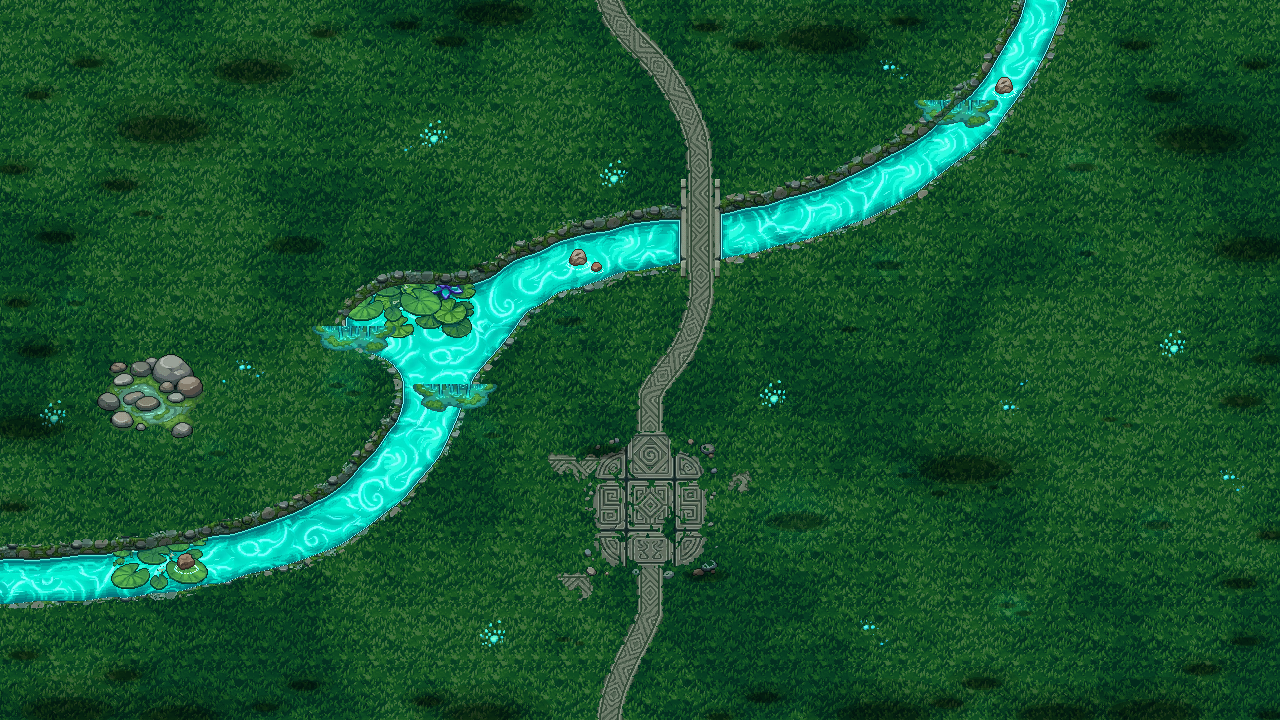
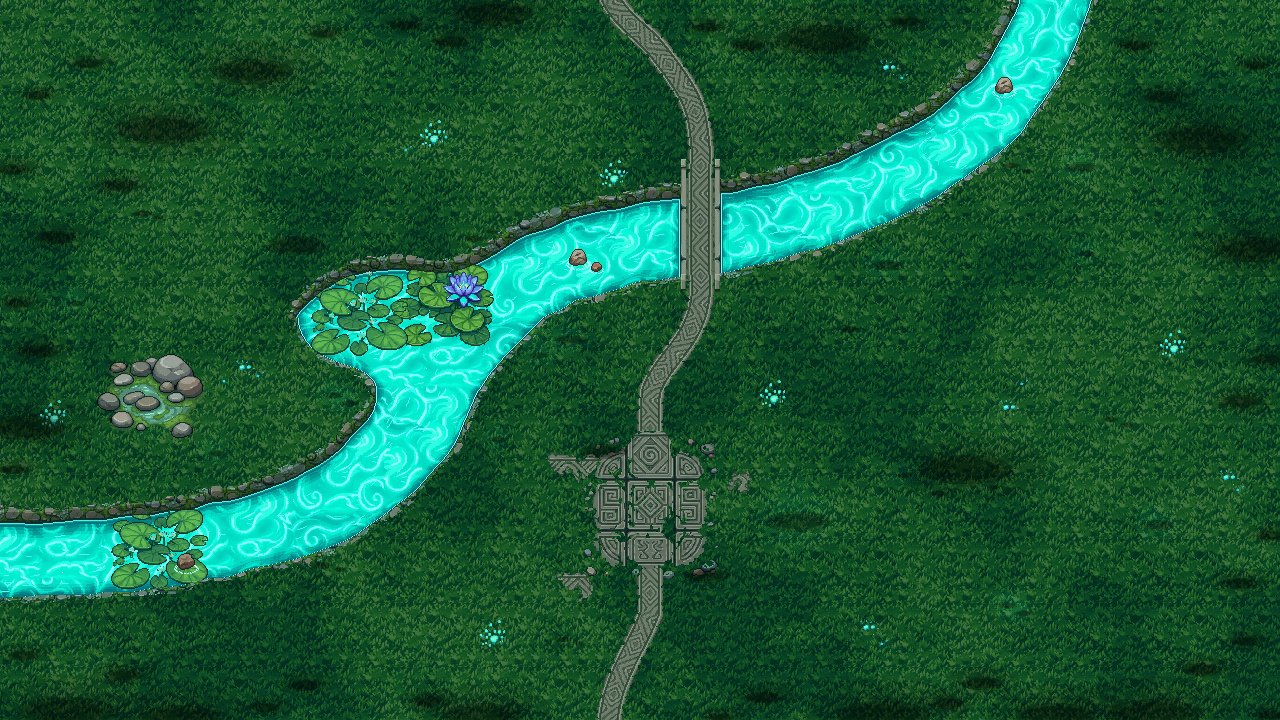
Ruscello: via le canne, il ruscello piu' largo
Bru: "bocciati quei cosi lunghi che escono dall'acqua, non blendano
bene; il ruscello dovrebbe essere piu' grosso". Tolte le canne luminose
(i pezzi, il piede dipinto, la loro luce). Il ruscello ha mezza
larghezza 38-48 invece di 23-32 (largo 80-95 pixel), lo stagno e' piu'
grande, il ponte piu' lungo; increspature lungo tutta la larghezza.
Sassi e ninfee rimessi dove l'acqua li vuole: nessun piede in acqua,
le ninfee stanno sull'acqua per nove decimi.

Claude-Session: https://claude.ai/code/session_01AE7uzpDH1Lo1PHb29aXJxZ

diff --git a/strumenti/livelli/ruscello_radenna.py b/strumenti/livelli/ruscello_radenna.py
@@ -15,7 +15,7 @@
 #
 # Materiali e pezzi dai fogli di Bru: l'erba di Radenna, i ciottoli muschiosi (tile_radenna) per le sponde, la
 # piazza a nove lastre (tile_radenna), l'acqua della vasca col filo chiaro lungo i bordi, il bordo della vasca
-# per le spallette del ponte, i pezzi delle pianure di Radenna (vasca, vasche a gradini, ninfee, canne, pozza
+# per le spallette del ponte, i pezzi delle pianure di Radenna (vasca, vasche a gradini, ninfee, pozza
 # coi sassi, colonna). L'acqua e le piante luminose bagnano di turchese l'erba vicina.
 #
 # Scrive art/livelli/ruscello.png (il terreno, con le cose piatte), ruscello_pezzi.json (le cose in piedi, che il
@@ -219,10 +219,6 @@ def prepara():
     _salva(verde[:, ::-1], os.path.join(NUOVI, 'cespuglione_verde_s.png'))
     f = np.asarray(Image.open(os.path.join(PEZ, 'alberi', 'albero_funghi.png')).convert('RGBA'))
     _salva(f[:, ::-1].astype(float), os.path.join(NUOVI, 'albero_funghi_s.png'))
-    # le canne: gli steli in piedi (pezzo), il piede d'acqua e muschio va dipinto sull'acqua
-    c = np.asarray(Image.open(os.path.join(PEZ, 'radenna', 'canne_luminose.png')).convert('RGBA')).astype(float)
-    _salva(c[:-28], os.path.join(NUOVI, 'canne_steli.png'))
-    _salva(c[:-28, ::-1], os.path.join(NUOVI, 'canne_steli_s.png'))
 
 
 # ================================================================ forme e rumore
@@ -290,11 +286,6 @@ def _posa(out, a, x0, y0):
             y, x = y0 + j, x0 + i
             if 0 <= y < H and 0 <= x < W and a[j, i, 3] > 0:
                 out[y, x] = a[j, i, :3]
-
-
-def _e_acqua_del_pezzo(c):
-    r, g, b = c[0], c[1], c[2]
-    return g > r + 40 and b > 0.72 * g and b < g + 10 and b > 90
 
 
 def _sfoca(a, r):
@@ -430,14 +421,14 @@ def _chiudi(m, k):
 # ================================================================ la pianta
 
 # il ruscello: entra in alto a destra, scende a S e se ne va a sinistra; mezza larghezza nei punti
-FIUME = [(1062, -70), (1034, 26), (972, 116), (866, 188), (744, 226), (622, 244), (522, 280), (452, 350),
-         (414, 438), (334, 514), (208, 556), (82, 572), (-80, 578)]
-LARGHI = [23, 23, 25, 27, 28, 28, 30, 32, 31, 29, 28, 27, 27]
-STAGNO = (416, 320, 72, 46)          # lo stagno sulla curva di fuori: centro e raggi (si fonde col ruscello)
+FIUME = [(1070, -80), (1046, 20), (984, 112), (872, 182), (748, 222), (626, 240), (526, 276), (450, 346),
+         (408, 430), (326, 500), (200, 538), (74, 552), (-90, 556)]
+LARGHI = [38, 38, 40, 42, 44, 44, 46, 48, 46, 44, 42, 42, 42]
+STAGNO = (392, 318, 96, 58)          # lo stagno sulla curva di fuori: centro e raggi (si fonde col ruscello)
 # la strada: arriva dal basso (dall'atterraggio), attraversa la piazza dritta nel mezzo, passa il ponte (dritta
-# sull'acqua) e sale in alto
-VIA = [(604, 800), (612, 700), (646, 622), (650, 600), (650, 505), (650, 410), (654, 388), (684, 346),
-       (700, 300), (700, 260), (700, 220), (700, 180), (694, 128), (662, 70), (612, 10), (590, -80)]
+# sull'acqua e sulle sponde) e sale in alto
+VIA = [(604, 800), (612, 700), (646, 622), (650, 600), (650, 505), (650, 410), (656, 380), (688, 334),
+       (700, 300), (700, 260), (700, 220), (700, 180), (700, 140), (690, 98), (656, 48), (612, 0), (590, -80)]
 RX = 686                              # il ponte: la strada dritta sull'acqua, x 686..714
 PIAZZA = (650, 505)                   # il centro della piazza antica (nove lastre del foglio di Bru)
 
@@ -482,7 +473,8 @@ def pianta():
         t.Z[g0 - 3:g1 + 3, x0:x0 + 5] = 7; t.M[g0 - 3:g1 + 3, x0:x0 + 5] = SPALLA
         for a in (g0 - 9, g1 + 3):
             t.Z[a:a + 6, x0:x0 + 5] = 10; t.M[a:a + 6, x0:x0 + 5] = PALO
-    return t, dict(S=S, V=V, D=D, w=w, SV=SV, VV=VV, dist=dist, largo=largo, acqua=acqua, lin=lin, u=u)
+    return t, dict(S=S, V=V, D=D, w=w, SV=SV, VV=VV, dist=dist, largo=largo, acqua=acqua, lin=lin, u=u,
+                   wl=np.interp(u, uc, LARGHI))
 
 
 # ================================================================ i colori
@@ -599,11 +591,11 @@ def disegna(t, F, seme=3):
     # la corrente: increspature allungate lungo il filo del ruscello (non nello stagno)
     lin, u = F['lin'], F['u']
     tg = np.gradient(lin, axis=0); tg /= np.linalg.norm(tg, axis=1)[:, None] + 1e-9
-    for k in range(70):
-        i = int(rng.integers(20, len(lin) - 20)); off = rng.uniform(-0.5, 0.5)
+    for k in range(130):
+        i = int(rng.integers(20, len(lin) - 20)); off = rng.uniform(-0.7, 0.7)
         px, py = lin[i]; nx, ny = -tg[i, 1], tg[i, 0]
-        wid = np.interp(i, [0, len(lin)], [20, 20])
-        L = int(rng.integers(5, 11))
+        wid = F['wl'][i]
+        L = int(rng.integers(5, 13))
         for j in range(L):
             q = min(len(lin) - 1, i + j)
             x = int(round(lin[q, 0] + nx * off * wid)); y = int(round(lin[q, 1] + ny * off * wid)) - FONDO
@@ -657,8 +649,7 @@ def impronta(nome, w, h):
         return (9, 4)
     if 'cespuglione' in nome:
         return (int(w * 0.36), 7)
-    for chiave, imp in (('colonna', (22, 7)), ('vasca_pietra', (42, 10)), ('vasche_gradini', (40, 12)),
-                        ('felce', (14, 4)), ('canne', (0, 0))):
+    for chiave, imp in (('colonna', (22, 7)), ('vasca_pietra', (42, 10)), ('vasche_gradini', (40, 12))):
         if chiave in nome:
             return imp
     if 'masso' in nome or 'sass' in nome:
@@ -688,7 +679,7 @@ ALBERI = [
     ('cespuglione_verde', 1052, 716), ('albero_funghi_s', 1150, 714), ('albero_2', 1198, 670), ('pino_1', 1242, 642),
     ('pino_2_s', 1266, 716),
     # il bordo a sinistra
-    ('pino_2', 14, 304), ('albero_4', 34, 352), ('cespuglione_verde', 22, 428), ('pino_1_s', 10, 508),
+    ('pino_2', 14, 304), ('albero_4', 34, 352), ('cespuglione_verde', 22, 428), ('pino_1_s', 10, 470),
     # l'albero solo, nel prato grande
     ('albero_funghi_s', 962, 470),
 ]
@@ -698,19 +689,17 @@ COSE = [
     # le vasche a gradini sopra lo stagno: l'acqua scende verso lo stagno
     ('vasche_gradini', 292, 246),
     # i sassi: sulle curve di fuori del ruscello, ai piedi degli alberi, nel prato a gruppetti
-    ('masso_muschio_8', 474, 268), ('sasso_5', 492, 272), ('masso_muschio_3', 1006, 152), ('sassolino_2', 1020, 156),
-    ('masso_muschio_9', 314, 528), ('sasso_2', 332, 532), ('masso_basso_4', 936, 494), ('sassolino_1', 990, 488),
+    ('masso_muschio_8', 470, 239), ('sasso_5', 488, 232), ('masso_muschio_3', 1008, 166), ('sassolino_2', 1024, 172),
+    ('masso_muschio_9', 318, 566), ('sasso_2', 336, 570), ('masso_basso_4', 936, 494), ('sassolino_1', 990, 488),
     ('masso_muschio_1', 1106, 420), ('sasso_4', 1124, 426), ('masso_muschio_8', 140, 214), ('sassolino_3', 156, 218),
     ('masso_muschio_3', 560, 640), ('sassolino_2', 576, 644), ('masso_basso_4', 846, 330),
     # le piante luminose: vicino all'acqua e sotto gli alberi
-    ('bulbi', 334, 386), ('bulbi', 350, 394), ('bulbi', 488, 436), ('bulbi', 214, 454), ('bulbi', 1084, 254),
-    ('bulbi', 902, 476), ('baccelli', 566, 322), ('baccelli_s', 884, 266), ('baccelli', 1154, 526),
-    ('bulbi', 1004, 606), ('bulbi', 1020, 614), ('bulbi', 72, 304), ('baccelli_s', 1078, 168), ('bulbi', 520, 318),
+    ('bulbi', 330, 396), ('bulbi', 346, 404), ('bulbi', 496, 440), ('bulbi', 214, 454), ('bulbi', 1084, 254),
+    ('bulbi', 902, 476), ('baccelli', 566, 340), ('baccelli_s', 884, 266), ('baccelli', 1154, 526),
+    ('bulbi', 1004, 606), ('bulbi', 1020, 614), ('bulbi', 72, 304), ('baccelli_s', 1078, 168), ('bulbi', 536, 356),
 ]
-# le canne: il piede nell'acqua bassa vicino alla riva (gli steli stanno in piedi, il piede e' dipinto sull'acqua)
-CANNE = [(360, 352, False), (448, 410, True), (962, 126, False)]
 # le cose piatte: ninfee (solo sull'acqua ferma), la pozza coi sassi (una sorgente), i resti del lastricato
-NINFEE = [('ninfee_loto', 426, 338), ('ninfee_fiori', 374, 320), ('ninfee_fiori', 140, 588)]
+NINFEE = [('ninfee_loto', 444, 346), ('ninfee_fiori', 340, 354), ('ninfee_fiori', 140, 588)]
 POZZE = [('sassi_pozza', 180, 436)]
 RUDERI = [('rovina_1', 548, 452), ('rovina_3', 728, 470), ('rovina_2', 556, 572)]
 # i sassi nella corrente, con la schiuma attorno: (pezzo, x, y del piede sullo schermo)
@@ -726,10 +715,6 @@ def _impiedi():
     for (n, x, y) in ALBERI + COSE:
         f, piede, (w, h) = pezzo(n)
         tutte.append((n, f, x, y, piede, impronta(n, w, h)))
-    for (x, y, s) in CANNE:
-        n = 'canne_steli_s' if s else 'canne_steli'
-        f, piede, _ = pezzo(n)
-        tutte.append((n, f, x, y - 27, (piede[0], 71), (0, 0)))
     return tutte
 
 
@@ -768,13 +753,6 @@ def decora(out, G):
                         out[y, x] = AQ[9] if e < 1 else AQ[8]
         a = np.asarray(Image.open(os.path.join(LIV, f)).convert('RGBA')).astype(float)
         _posa_su(out, a, fx - px, fy - py, acq)
-    c = np.asarray(Image.open(os.path.join(PEZ, 'radenna', 'canne_luminose.png')).convert('RGBA')).astype(float)
-    for (fx, fy, specchio) in CANNE:
-        a = c[:, ::-1] if specchio else c
-        px = a.shape[1] - 1 - 48 if specchio else 48
-        base = a.copy(); base[:72, :, 3] = 0
-        # sulla riva il piede delle canne e' una pozzetta di fango e muschio: sull'acqua, sui ciottoli e sull'erba
-        _posa_su(out, base, fx - px, fy - 98, (tipo == 1) & np.isin(Mb, [ACQUA, RIVA, ERBA]))
     return out
 
 
@@ -790,9 +768,7 @@ def _posa_su(out, a, x0, y0, dove):
 def _sorgenti():
     s = []
     for (n, f, x, y, piede, imp) in _impiedi():
-        if 'canne' in n:
-            s.append((x, y + 20, 0.7, 22))
-        elif 'bulbi' in n:
+        if 'bulbi' in n:
             s.append((x, y - 4, 0.5, 11))
         elif 'baccelli' in n or 'sfere' in n:
             s.append((x, y - 4, 0.55, 14))
@@ -831,8 +807,6 @@ def ombre(out, G):
     tipo, Mb = G['tipo'], G['m']
     bayer = np.array([[0, 8, 2, 10], [12, 4, 14, 6], [3, 11, 1, 9], [15, 7, 13, 5]]) / 16.0
     for (n, f, fx, fy, piede, imp) in _impiedi():
-        if 'canne' in n:
-            continue
         w = Image.open(os.path.join(LIV, f)).size[0]
         if 'albero' in n or 'cespuglione' in n or 'pino' in n:
             rx = 0.56 * w; ry = 0.24 * w; cx, cy = fx + 5, fy - 3
@@ -883,8 +857,8 @@ STANZE = [
     {"nome": "Lo stagno", "rett": [250, 200, 520, 420]},
     {"nome": "La pianura", "rett": [0, 0, W, H]},
 ]
-GIRO = [[612, 700], [650, 610], [650, 505], [650, 420], [688, 352], [700, 300], [700, 200], [694, 140],
-        [600, 196], [420, 250], [600, 196], [690, 120], [650, 62], [606, 12]]
+GIRO = [[612, 700], [650, 610], [650, 505], [650, 420], [672, 356], [700, 300], [700, 200], [700, 150],
+        [600, 170], [430, 230], [600, 170], [690, 110], [656, 52], [608, 8]]
 
 
 def main():
